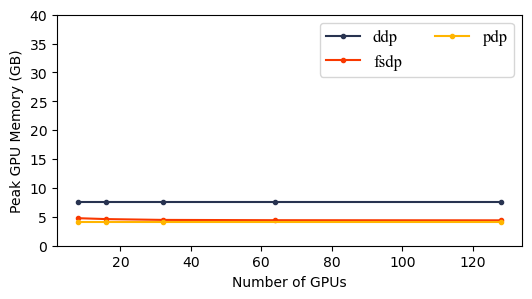
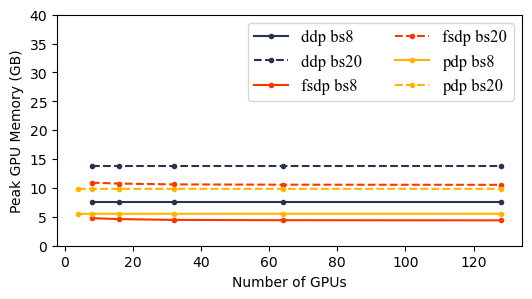
add more figures

diff --git a/draw_scalability_bs.py b/draw_scalability_bs.py
@@ -1,0 +1,202 @@
+import matplotlib.pyplot as plt
+import numpy as np
+
+COLORS = [
+  "#283350",
+  "#f93800",
+  "#ffb500",
+  "#000000",
+  "#666666",
+]
+
+FONT = {'fontname':'Times New Roman', 'size':12}
+FIG_TYPE = "png"
+
+
+# GPTLarge, 32 GPUs
+
+ddp = [
+  [8,    16,    32,    60,    64,    68],  # batch size
+  [1.45, 1.49,  1.59,  1.75,  2.12,  1.72],
+  [7583, 11548, 19567, 33791, 35590, 37806],
+]
+
+fsdp = [
+  [8,    16,   32,    60,    64,    68,    72,    76],
+  [1.96, 2.77, 2.44,  2.45,  2.83,  2.63,  3.43,  3.77],
+  [4470, 8423, 16436, 30679, 32459, 34686, 36467, 38692],
+]
+
+pdp_ck2 = [
+  [8,    16,   32,    64,    72,    80,    88,    96],
+  [1.34, 1.33, 1.47,  1.79,  1.90,  1.95,  1.97,  2.45],
+  [5534, 8353, 14027, 25373, 28207, 31045, 33880, 36718],
+]
+
+pdp_ck4 = [
+  [8,    16,   32,   64,    72,    80,    88,    96,    104,   112,   120,   128,   136,   144,   152,   160],
+  [1.43, 1.41, 1.56, 1.84,  2.01,  2.12,  2.09,  2.26,  2.34,  2.48,  2.47,  2.67,  2.68,  2.71,  2.97,  2.99],
+  [4327, 5959, 9196, 16342, 18274, 20003, 21937, 23664, 25603, 27327, 29264, 30987, 32927, 34650, 36587, 38311],
+]
+
+pdp_ck8 = [
+  [144,   152,   160,   168,   176],
+  [2.93,  3.03,  3.09,  3.39,  3.36],
+  [25765, 26988, 28321, 29709, 31091]
+]
+
+
+def plot_qps(model, blk_size=256, show=True):
+  ws = 32
+  def qps(bs, delay):
+    return ws * np.array(bs) * blk_size / np.array(delay) / 1000
+
+  plt.figure(figsize=(6, 3))
+  handles = []
+  handles.extend([
+    # ddp
+    plt.plot(ddp[0], qps(ddp[0], ddp[1]), '.-', color=COLORS[0])[0],
+    # fsdp
+    plt.plot(fsdp[0], qps(fsdp[0], fsdp[1]), '.-', color=COLORS[1])[0],
+    # pdp ck=2
+    plt.plot(pdp_ck2[0], qps(pdp_ck2[0], pdp_ck2[1]), '.-', color=COLORS[2])[0],
+    # pdp ck=4
+    plt.plot(pdp_ck4[0], qps(pdp_ck4[0], pdp_ck4[1]), '.-', color=COLORS[3])[0],
+    # pdp ck=8
+    plt.plot(pdp_ck8[0], qps(pdp_ck8[0], pdp_ck8[1]), '.-', color=COLORS[4])[0],
+  ])
+
+  plt.legend(
+      handles=handles,
+      loc="upper left",
+      labels=[
+        "ddp", 
+        "fsdp",
+        "pdp ck2",
+        "pdp ck4",
+      ],
+      prop={'family':FONT['fontname'], 'size':FONT['size']},
+      ncol=2,
+      #bbox_to_anchor=(-0.015, 0.3, 0.5, 0.5)
+  )
+
+
+  plt.xlabel(f"Per-GPU Batch Size")
+  plt.ylabel(f"{model} QPS (1k / Second)")
+
+  if show:
+    plt.show()
+  else:
+    plt.savefig(f'image/{model}_qps_max_bs.{FIG_TYPE}', bbox_inches='tight')
+
+
+def plot_mem(model, blk_size=256, show=True):
+
+  def gb(mem):
+    return np.array(mem) / 1000
+
+  plt.figure(figsize=(6, 3))
+  handles = []
+  handles.extend([
+    # ddp
+    plt.plot(ddp[0], gb(ddp[2]), '.-', color=COLORS[0])[0],
+    # fsdp
+    plt.plot(fsdp[0], gb(fsdp[2]), '.-', color=COLORS[1])[0],
+    # pdp ck=2
+    plt.plot(pdp_ck2[0], gb(pdp_ck2[2]), '.-', color=COLORS[2])[0],
+    # pdp ck=4
+    plt.plot(pdp_ck4[0], gb(pdp_ck4[2]), '.-', color=COLORS[3])[0],
+    # pdp ck=8
+    plt.plot(pdp_ck8[0], gb(pdp_ck8[2]), '.-', color=COLORS[4])[0],
+  ])
+
+  plt.legend(
+      handles=handles,
+      loc="upper right",
+      labels=[
+        "ddp", 
+        "fsdp",
+        "pdp ck2",
+        "pdp ck4",
+      ],
+      prop={'family':FONT['fontname'], 'size':FONT['size']},
+      ncol=2,
+      #bbox_to_anchor=(-0.015, 0.3, 0.5, 0.5)
+  )
+
+
+  plt.xlabel(f"Per-GPU Batch Size")
+  plt.ylabel(f"{model} Peak GPU Memory (GB)")
+  plt.ylim([0, 40])
+
+  if show:
+    plt.show()
+  else:
+    plt.savefig(f'image/{model}_memory_max_bs.{FIG_TYPE}', bbox_inches='tight')
+
+
+plot_qps("GPTLarge", show=False)
+plot_mem("GPTLarge", show=False)
+
+
+# GPTXXL, 32 GPUs
+
+ddp = [
+  [8,     16,    20,    24],
+  [4.42,  5.62,  5.03,  5.28],
+  [20258, 29088, 33737, 37932],
+]
+
+fsdp = [
+  [8,    16,    28,    30,    32],
+  [6.50, 7.35,  7.43,  10.61, 8.87],
+  [9775, 18555, 32070, 34157, 36224],
+]
+
+pdp_ck2 = [
+  [8,     16,    32,    36,    40],
+  [3.92,  4.56,  4.87,  4.80,  4.72],
+  [13877, 19134, 29657, 32408, 34916],
+]
+
+pdp_ck4 = [
+  [8,     16,    32,    64,    72,    80],
+  [3.92,  4.46,  4.07,  5.17,  5.67,  6.32],
+  [11473, 14310, 19994, 31379, 34345, 37068],
+]
+
+pdp_ck8 = [
+  [72,    80,    88,    96,    104],
+  [6.61,  6.47,  6.80,  6.89,  7.56],
+  [23366, 25126, 27012, 28896, 30837],
+]
+
+
+plot_qps("GPTXXL", show=False)
+plot_mem("GPTXXL", show=False)
+
+
+
+
+
+
+
+
+
+
+
+
+
+
+
+
+
+
+
+
+
+
+
+
+
+

diff --git a/draw_scalability.py b/draw_scalability.py
@@ -47,23 +47,23 @@ pdp_ck4 = [
 ]
 
 
-def plot_scaling(prefix, bs, blk_size=256, show=True):
+def plot_scaling(model, bs, blk_size=256, show=True):
 
-  def qps(ws, delay):
+  def qps(ws, bs, delay):
     return np.array(ws) * bs * blk_size / np.array(delay) / 1000
 
   plt.figure(figsize=(6, 3))
   handles = []
   handles.extend([
     # ddp
-    plt.plot(ddp[0], qps(ddp[0], ddp[1]), '.-', color=COLORS[0])[0],
-    plt.plot(ddp[0], qps(ddp[0], ddp[3]), '.--', color=COLORS[0])[0],
+    plt.plot(ddp[0], qps(ddp[0], bs[0], ddp[1]), '.-', color=COLORS[0])[0],
+    plt.plot(ddp[0], qps(ddp[0], bs[1], ddp[3]), '.--', color=COLORS[0])[0],
     # fsdp
-    plt.plot(fsdp[0], qps(fsdp[0], fsdp[1]), '.-', color=COLORS[1])[0],
-    plt.plot(fsdp[0], qps(fsdp[0], fsdp[3]), '.--', color=COLORS[1])[0],
+    plt.plot(fsdp[0], qps(fsdp[0], bs[0], fsdp[1]), '.-', color=COLORS[1])[0],
+    plt.plot(fsdp[0], qps(fsdp[0], bs[1], fsdp[3]), '.--', color=COLORS[1])[0],
     # pdp ck=2
-    plt.plot(pdp_ck2[0], qps(pdp_ck2[0], pdp_ck2[1]), '.-', color=COLORS[2])[0],
-    plt.plot(pdp_ck2[0], qps(pdp_ck2[0], pdp_ck2[3]), '.--', color=COLORS[2])[0],
+    plt.plot(pdp_ck2[0], qps(pdp_ck2[0], bs[0], pdp_ck2[1]), '.-', color=COLORS[2])[0],
+    plt.plot(pdp_ck2[0], qps(pdp_ck2[0], bs[1], pdp_ck2[3]), '.--', color=COLORS[2])[0],
   ])
 
   plt.legend(
@@ -84,15 +84,15 @@ def plot_scaling(prefix, bs, blk_size=256, show=True):
 
 
   plt.xlabel(f"Number of GPUs")
-  plt.ylabel("GPTSmall QPS (1k / Second)")
+  plt.ylabel(f"{model} QPS (1k / Second)")
 
   if show:
     plt.show()
   else:
-    plt.savefig(f'image/{prefix}_scaling_bs{bs}.{FIG_TYPE}', bbox_inches='tight')
+    plt.savefig(f'image/{model}_scaling_bs{bs}.{FIG_TYPE}', bbox_inches='tight')
 
 
-def plot_memory(prefix, bs, blk_size=256, show=True):
+def plot_memory(model, bs, blk_size=256, show=True):
 
   def gb(mem):
     return np.array(mem) / 1000
@@ -129,17 +129,17 @@ def plot_memory(prefix, bs, blk_size=256, show=True):
 
 
   plt.xlabel(f"Number of GPUs")
-  plt.ylabel("Peak GPU Memory (GB)")
+  plt.ylabel(f"{model} Peak GPU Memory (GB)")
   plt.ylim([0, 40])
 
   if show:
     plt.show()
   else:
-    plt.savefig(f'image/{prefix}_memory_bs{bs}.{FIG_TYPE}', bbox_inches='tight')
+    plt.savefig(f'image/{model}_memory_bs{bs}.{FIG_TYPE}', bbox_inches='tight')
 
 
-plot_scaling("gptsmall", 8, show=False)
-plot_memory("gptsmall", 8, show=False)
+plot_scaling("GPTSmall", [8, 20], show=False)
+plot_memory("GPTSmall", [8, 20], show=False)
 
 
 
@@ -180,8 +180,8 @@ pdp_ck4 = [
 ]
 
 
-plot_scaling("gptlarge", 8, show=False)
-plot_memory("gptlarge", 8, show=False)
+plot_scaling("GPTLarge", [8, 20], show=False)
+plot_memory("GPTLarge", [8, 20], show=False)
 
 
 
@@ -221,8 +221,8 @@ pdp_ck4 = [
 ]
 
 
-plot_scaling("gptxxl", 8, show=False)
-plot_memory("gptxxl", 8, show=False)
+plot_scaling("GPT2.7B", [8, 20], show=False)
+plot_memory("GPT2.7B", [8, 20], show=False)
 
 
 

diff --git a/draw_model_scale.py b/draw_model_scale.py
@@ -1,0 +1,52 @@
+import matplotlib.pyplot as plt
+import numpy as np
+
+
+
+COLORS = [
+  "#283350",
+  "#f93800",
+  "#ffb500",
+]
+
+FONT = {'fontname':'Times New Roman', 'size':12}
+FIG_TYPE = "png"
+
+
+ddp = [
+  [125,  350,  760,   1300,  2700],  # GPTSmall, Medium, Large, Xl, XXL
+  [0.28, 0.75, 1.43,  2.55,  5.13],  # per-iteration delay
+  [3625, 8014, 11548, 16748, 29088], # Peak mem
+]
+
+fsdp = [
+  [125,  350,  760,   1300,  2700,  6700,  13000],  # GPTSmall, Large, Xl, XXL, XXXL
+  [0.46, 0.00, 2.77,  3.55,  7.35,  22.89, 0.00],
+  [3056, 0000, 8423,  11416, 18555, 26230, 0000]
+]
+
+fsdp_checkpoint = [
+  [125,  350,  760,   1300,  2700,  6700,  13000],
+  [0.55, 0.00, 2.75,  5.01,  8.66,  25.85, 0.00],
+  [1091, 0000, 1575,  1891,  2434,  3678,  0000]
+]
+
+fsdp_offload = [
+  [125,  350,  760,   1300,  2700,  6700,  13000],
+  [0.54, 0.00, 2.62,  7.20,  8.63,  20.79, 0.00],
+  [1016, 0000, 1273,  1485,  1763,  2604,  0000],
+]
+
+
+pdp_ck2 = [
+  [125,  350,  760,   1300,  2700,  6700,  13000],
+  [0.27, 0.00, 1.15,  0.00,  4.90,  9.02,  0.00],
+  [2131, 0000, 5534,  0000,  13877, 14458, 0000],
+]
+
+pdp_ck4 = [
+  [125,  350,  760,   1300,  2700,  6700,  13000],  
+  [0.35, 0.00, 1.40,  0.00,  4.32,  9.68,  0.00],
+  [1566, 0000, 4327,  0000,  11473, 12759, 0000],
+]
+
